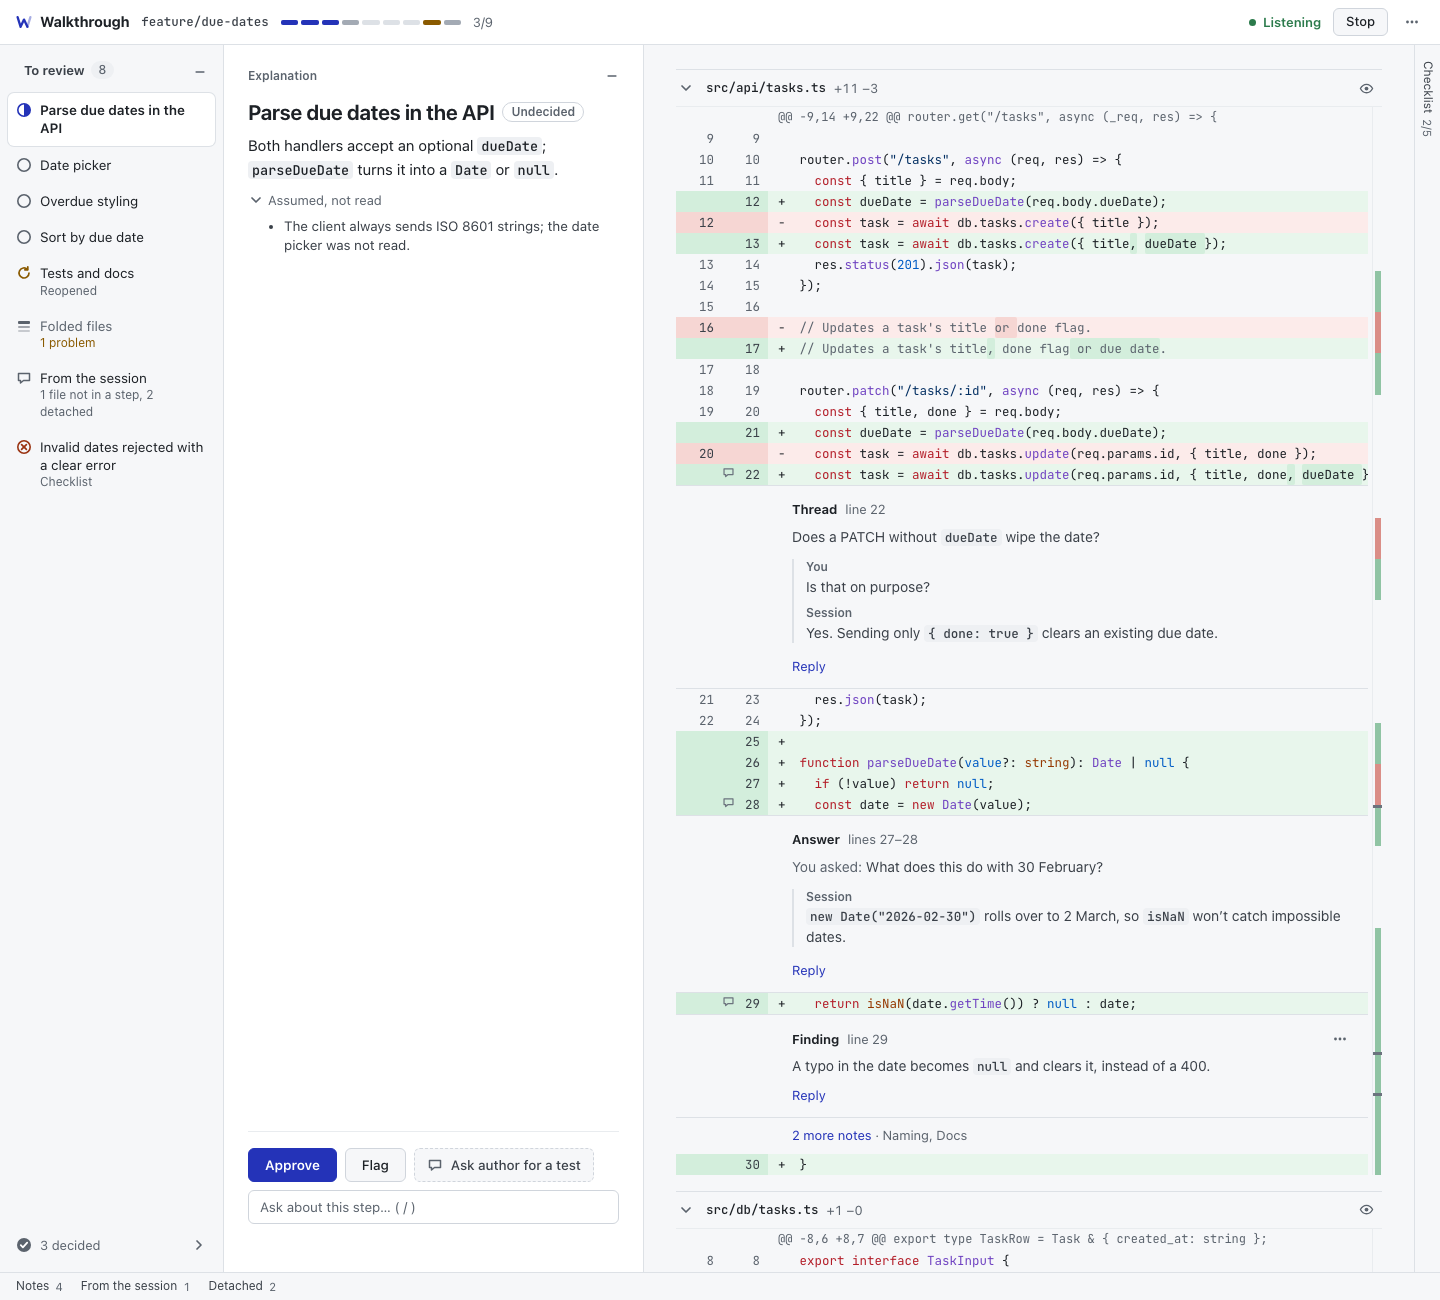
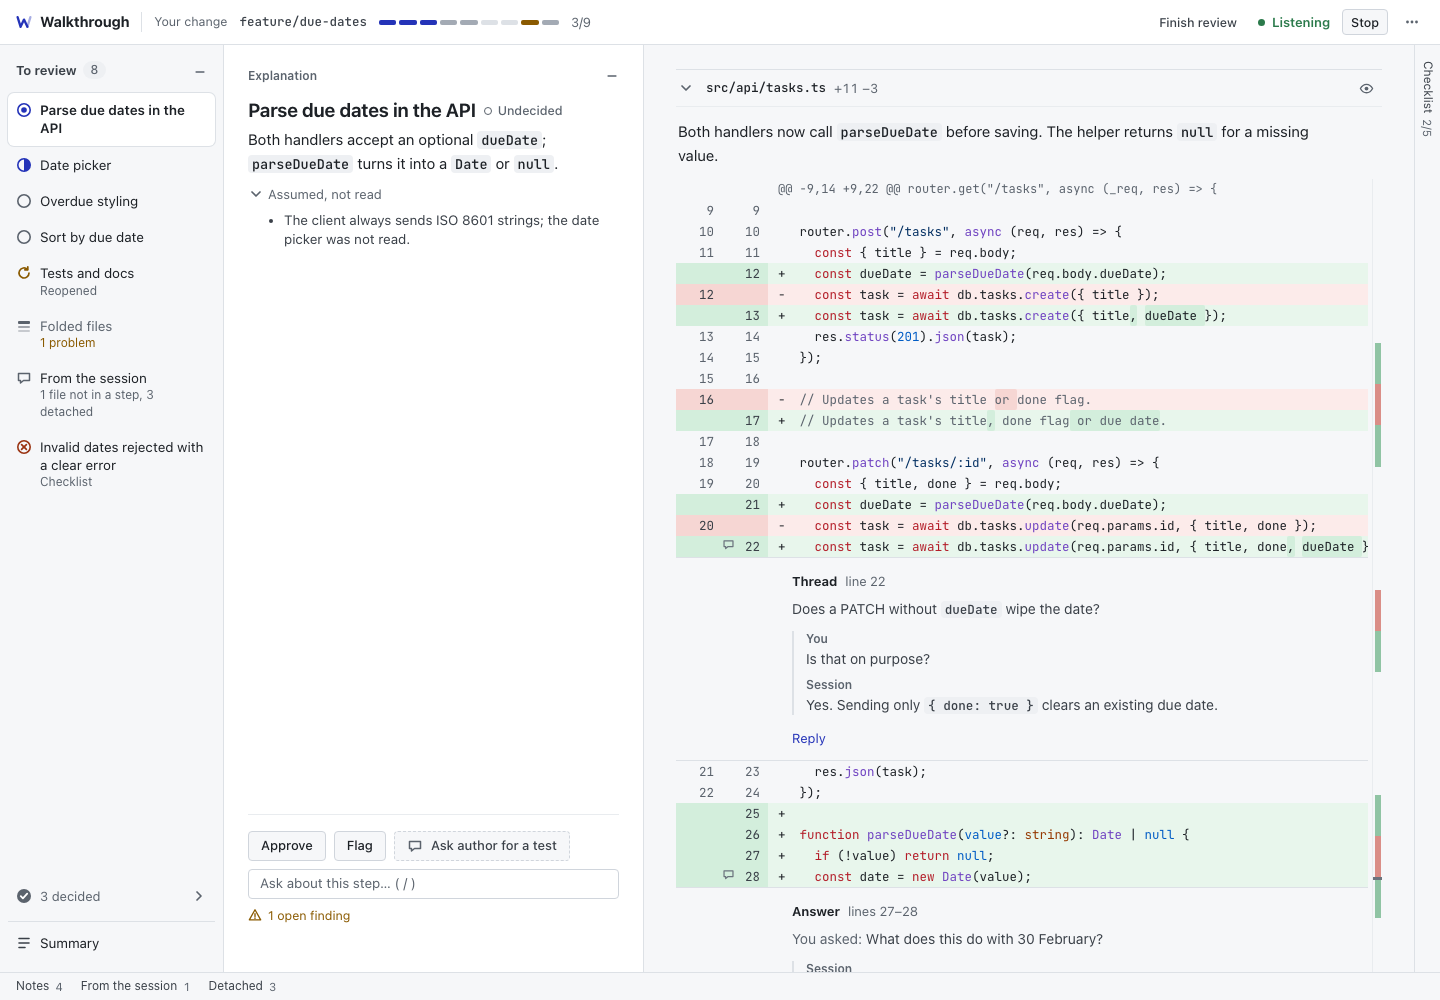
The README shows the round 2 page and names the comments and posted commands
Its screenshots are retaken from the built page with the board's sample data.
It says what In this step shows, and that the list shows each walkthrough's kind and verdict.

diff --git a/README.md b/README.md
@@ -80,6 +80,7 @@ Uncommitted edits are left out, with a warning, and nothing is ever checked out.
 1. **Steps.**
    Each step is a part of the change with its diff and the session's explanation, in reading order.
    What the session assumed rather than read is listed separately.
+   Beside the explanation, "In this step" lists the step's files, counts its findings, notes and your comments, and shows the checklist items it touches.
    Files nobody writes by hand go into a folded step, each with the reason it was folded.
    Each file collapses from its header; large files start collapsed, and marking a file Viewed collapses it too, which is never a decision.
 2. **Notes.**
@@ -162,7 +163,7 @@ The file carries no page address or token.
 
 ![An exported walkthrough](docs/images/export.png)
 
-Ask which walkthroughs you have open, and it opens a page with this repo's walkthroughs, their progress and last activity.
+Ask which walkthroughs you have open, and it opens a page with this repo's walkthroughs, their kind, progress, verdict and last activity.
 
 ![The list of walkthroughs](docs/images/list.png)
 
@@ -195,13 +196,15 @@ The session runs the `walkthrough` CLI for you, so you rarely type it yourself.
 
 | Command | What it does |
 | --- | --- |
-| `start` | Starts or resumes a walkthrough of the current branch, or of `--base <rev> --head <rev> --label <text>`, and opens its page; `--kind <label>` names its kind for the page. |
+| `start` | Starts or resumes a walkthrough of the current branch, or of `--base <rev> --head <rev> --label <text>`, and opens its page; `--kind <label>` names its kind for the page, and `--comments <text>` says what becomes of your comments. |
 | `files` | Lists the changed files. |
 | `steps`, `note`, `checklist`, `actions` | Record what the session wrote, from a file in the walkthrough's inbox (`--file`) or standard input. |
 | `listen` | Waits in the background for what you do on the page. |
 | `say` | Puts the session's answer, question or note on the page. |
 | `policy` | Says whether your review policy is missing, the unchanged template or your own; `show`, `init` and `save --file` print, create and replace it. |
 | `decisions` | Prints your latest decision on every item. |
+| `comments` | Prints your own line comments as they are now. |
+| `posted` | Marks your comments posted once they have gone out, so the page no longer lets you edit them. |
 | `export` | Writes the walkthrough to one read-only HTML file. |
 | `list` | Opens a page of this repo's walkthroughs. |
 | `stop` | Ends the page and the listener; `stop --list` ends the list page. |
